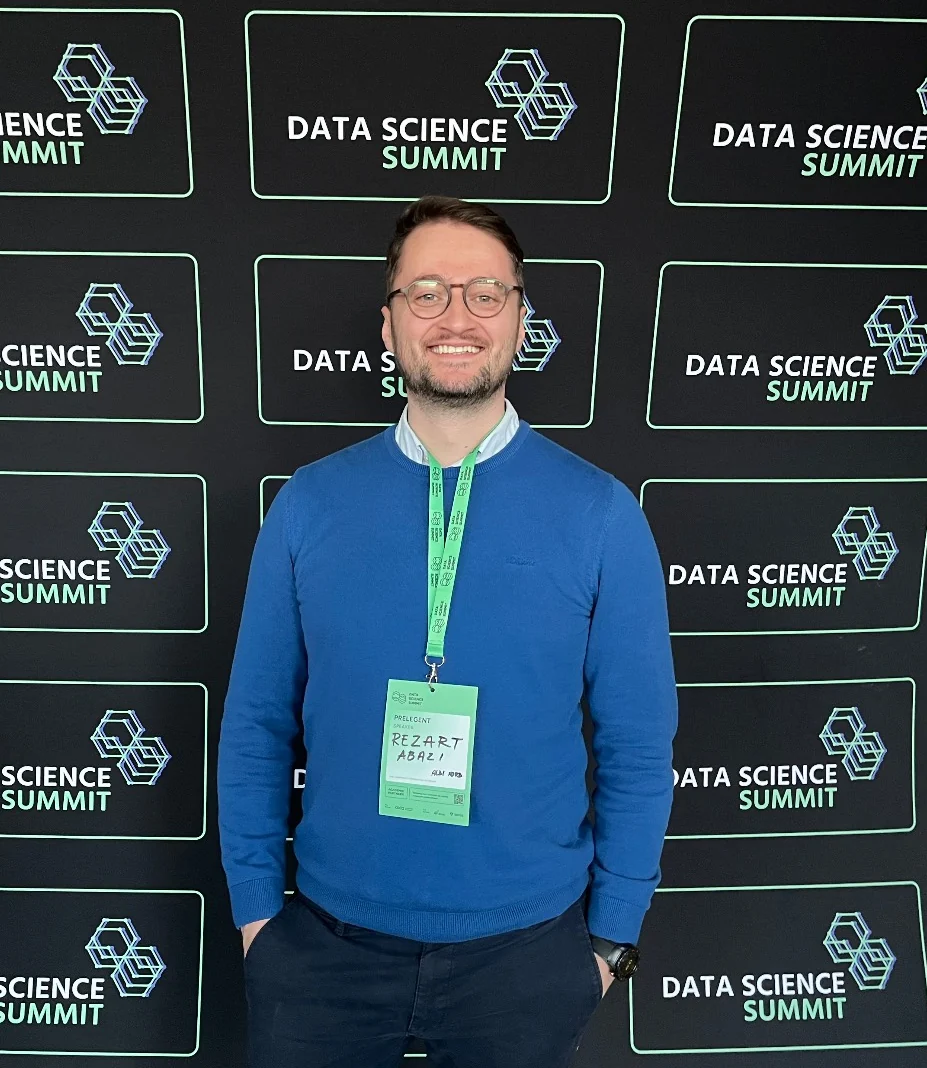
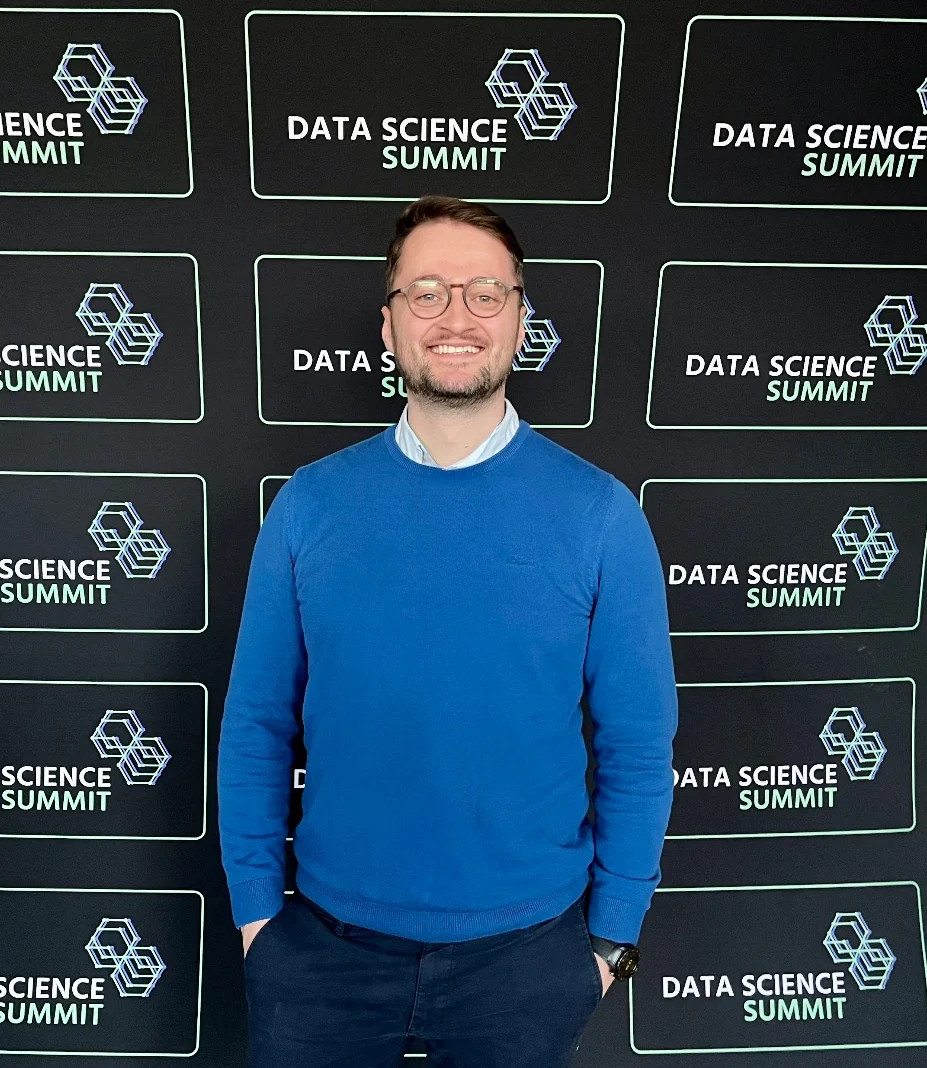
Use the owner's lanyard-free version of the portrait
Same crop and size as before. Bump the service worker cache version.

diff --git a/sw.js b/sw.js
@@ -1,5 +1,5 @@
 // Offline cache for the installed site. Bump VERSION whenever shipped files change.
-const VERSION = 'v3-2026-11-08';
+const VERSION = 'v4-2026-11-08';
 const CACHE = `rezart-${VERSION}`;
 const CORE = [
   './',
